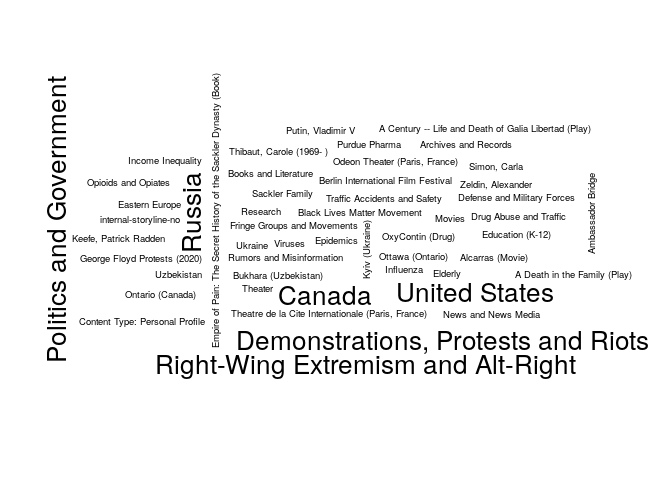
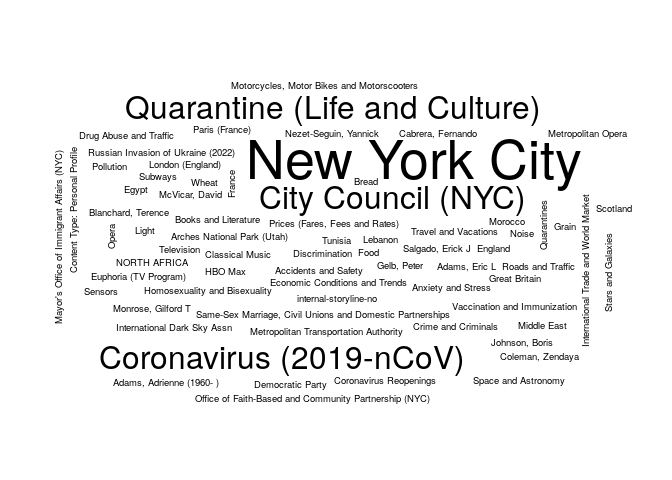
Updating the NYT report

Changed region(s): [[0.0625, 0.1562, 0.9688, 0.8438]]

diff --git a/03-nytimes/README.md b/03-nytimes/README.md
@@ -5,7 +5,7 @@ The following is an example of how to use the [NYTimes
 API](https://developer.nytimes.com/) to get a list of articles related
 to a particular term. Here we are searching articles that include the
 term `"health"`, and that were published up to seven days ago since
-2022-02-21.
+2022-02-28.
 
 ``` r
 # Preparing a function to use the GET method with the NYTimes API
@@ -83,25 +83,25 @@ colnames(tab) <- c("Keyword", "# Articles")
 knitr::kable(tab, row.names = FALSE)
 ```
 
-| Keyword                                             | \# Articles |
-|:----------------------------------------------------|------------:|
-| Coronavirus (2019-nCoV)                             |          50 |
-| Canada                                              |          20 |
-| Demonstrations, Protests and Riots                  |          20 |
-| Politics and Government                             |          20 |
-| Right-Wing Extremism and Alt-Right                  |          20 |
-| Russia                                              |          20 |
-| United States                                       |          20 |
-| A Century – Life and Death of Galia Libertad (Play) |          10 |
-| A Death in the Family (Play)                        |          10 |
-| Alcarras (Movie)                                    |          10 |
-| Ambassador Bridge                                   |          10 |
-| Archives and Records                                |          10 |
-| Berlin International Film Festival                  |          10 |
-| Black Lives Matter Movement                         |          10 |
-| Books and Literature                                |          10 |
-| Bukhara (Uzbekistan)                                |          10 |
-| Content Type: Personal Profile                      |          10 |
-| Defense and Military Forces                         |          10 |
-| Drug Abuse and Traffic                              |          10 |
-| Eastern Europe                                      |          10 |
+| Keyword                        | \# Articles |
+|:-------------------------------|------------:|
+| Politics and Government        |          40 |
+| New York City                  |          30 |
+| City Council (NYC)             |          20 |
+| Coronavirus (2019-nCoV)        |          20 |
+| Quarantine (Life and Culture)  |          20 |
+| Accidents and Safety           |          10 |
+| Adams, Adrienne (1960- )       |          10 |
+| Adams, Eric L                  |          10 |
+| Anxiety and Stress             |          10 |
+| Arches National Park (Utah)    |          10 |
+| Blanchard, Terence             |          10 |
+| Books and Literature           |          10 |
+| Bread                          |          10 |
+| Cabrera, Fernando              |          10 |
+| Classical Music                |          10 |
+| Coleman, Zendaya               |          10 |
+| Content Type: Personal Profile |          10 |
+| Coronavirus Reopenings         |          10 |
+| Crime and Criminals            |          10 |
+| Democratic Party               |          10 |
